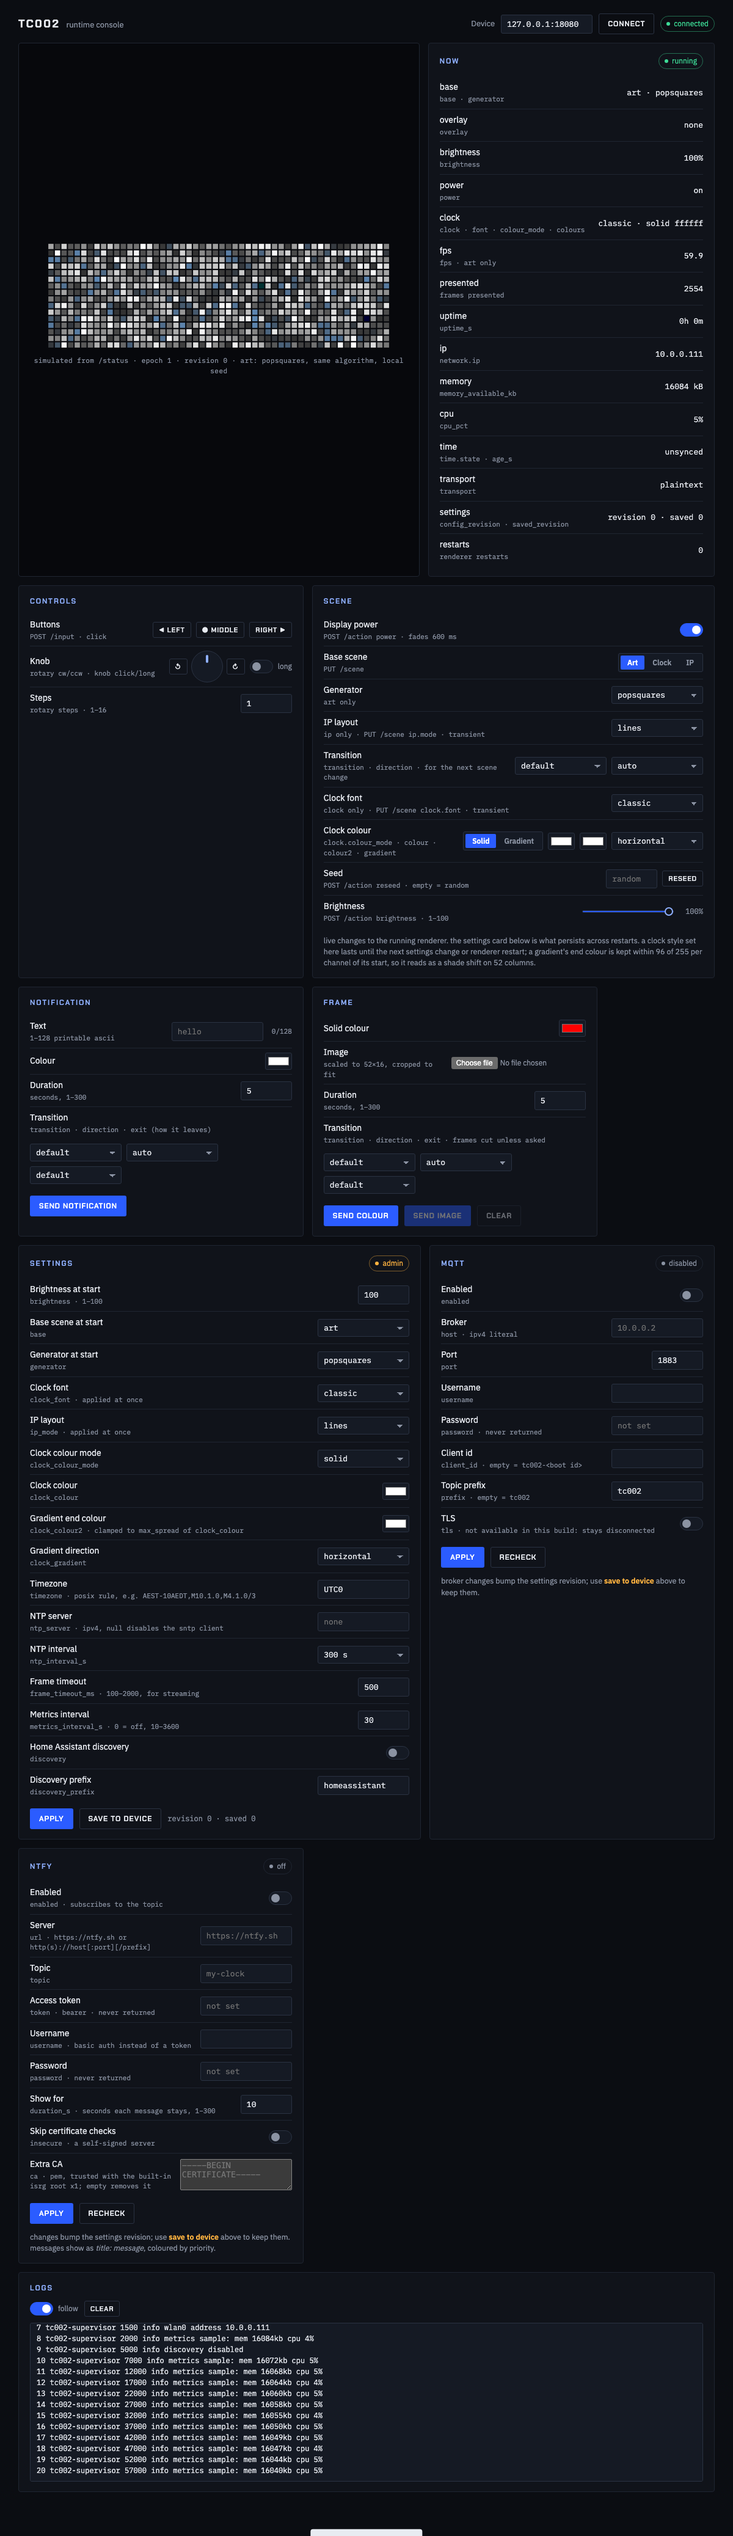
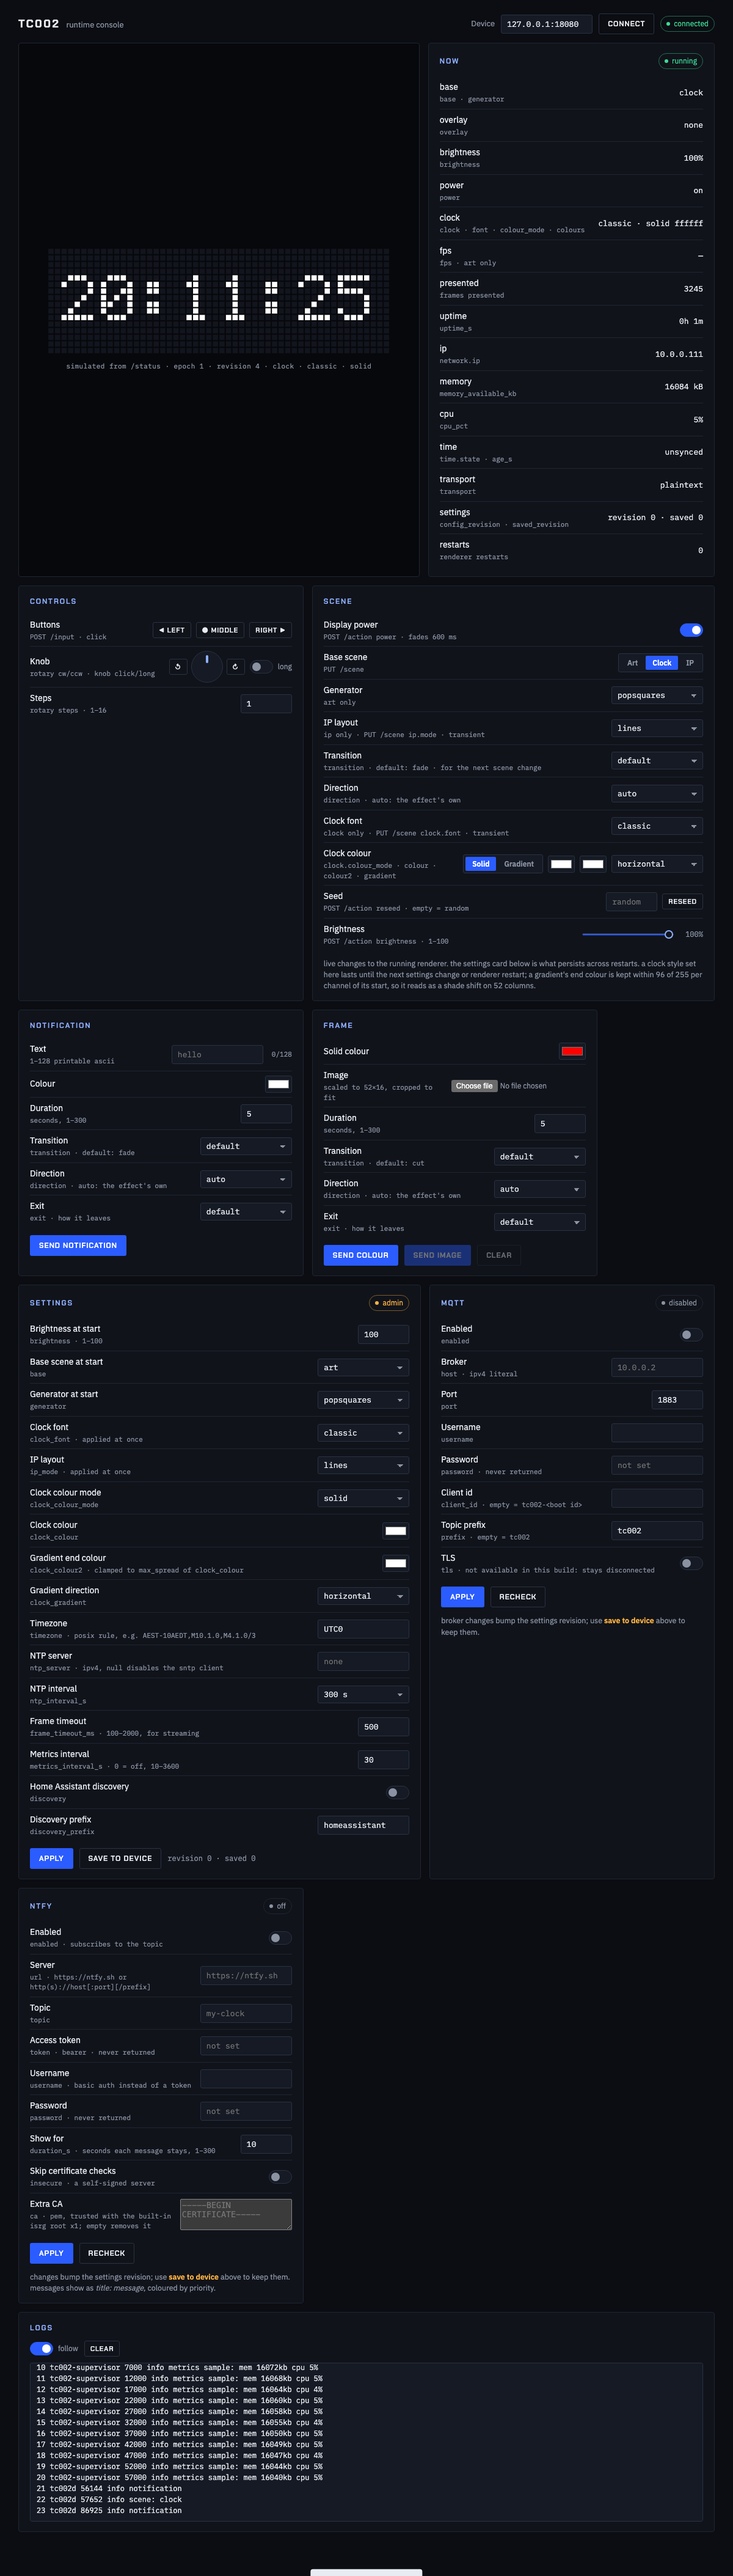
panel-v2: each transition control gets its own labelled row
the effect, direction and exit selects sat together under one "Transition" label, so which box was
which had to be inferred from the order of the words in the key line. they are now three rows,
named Transition, Direction and Exit, each with its api field and default beside it, like every
other row on the page: transition (fade for scenes and notifications, cut for frames), direction
(auto means the effect's own) and exit (how a notification or frame leaves). the scene card gets
the same treatment for its two, and keeps no exit, which a base scene ignores.

the wiring is unchanged: the selects keep their ids, so fillTransitionSelects and transitionFields
still find them. checked through the page against the mock, the notify body carries
`"transition":"blinds","direction":"down","exit":"same"`.

test_layout.mjs gains an assertion that every select is named by the row it sits in, either by a
label whose `for` points at it or by an aria-label. it fails on the five selects that had neither.

Claude-Session: https://claude.ai/code/session_0154EZ6adqhZyrJZmuD4WZcY

diff --git a/panel-v2/index.html b/panel-v2/index.html
@@ -222,8 +222,8 @@ input[type=file]{font:12px var(--body);color:var(--muted);max-width:220px}
           </div></div>
         <div class="field"><label for="gen">Generator<span class="key">art only</span></label><select id="gen"></select></div>
         <div class="field"><label for="kip">IP layout<span class="key">ip only · PUT /scene ip.mode · transient</span></label><select id="kip"></select></div>
-        <div class="field"><label for="strans">Transition<span class="key">transition · direction · for the next scene change</span></label>
-          <span class="inline"><select id="strans"></select><select id="sdir"></select></span></div>
+        <div class="field"><label for="strans">Transition<span class="key">transition · default: fade · for the next scene change</span></label><select id="strans"></select></div>
+        <div class="field"><label for="sdir">Direction<span class="key">direction · auto: the effect's own</span></label><select id="sdir"></select></div>
         <div class="field"><label for="kfont">Clock font<span class="key">clock only · PUT /scene clock.font · transient</span></label><select id="kfont"></select></div>
         <div class="field"><span class="lab">Clock colour<span class="key">clock.colour_mode · colour · colour2 · gradient</span></span>
           <span class="inline">
@@ -251,8 +251,9 @@ input[type=file]{font:12px var(--body);color:var(--muted);max-width:220px}
           <span class="inline"><input type="text" id="ntext" maxlength="128" placeholder="hello" autocomplete="off"><span class="counter" id="ncount">0/128</span></span></div>
         <div class="field"><label for="ncolour">Colour</label><input type="color" id="ncolour" value="#ffffff"></div>
         <div class="field"><label for="ndur">Duration<span class="key">seconds, 1–300</span></label><input type="number" id="ndur" min="1" max="300" value="5"></div>
-        <div class="field"><label for="ntrans">Transition<span class="key">transition · direction · exit (how it leaves)</span></label>
-          <span class="inline"><select id="ntrans"></select><select id="ndir"></select><select id="nexit"></select></span></div>
+        <div class="field"><label for="ntrans">Transition<span class="key">transition · default: fade</span></label><select id="ntrans"></select></div>
+        <div class="field"><label for="ndir">Direction<span class="key">direction · auto: the effect's own</span></label><select id="ndir"></select></div>
+        <div class="field"><label for="nexit">Exit<span class="key">exit · how it leaves</span></label><select id="nexit"></select></div>
       </div>
       <div class="actions"><button class="btn" id="nsend">Send notification</button></div>
     </section>
@@ -264,8 +265,9 @@ input[type=file]{font:12px var(--body);color:var(--muted);max-width:220px}
         <div class="field"><label for="fcolour">Solid colour</label><input type="color" id="fcolour" value="#ff0000"></div>
         <div class="field"><label for="fimage">Image<span class="key">scaled to 52×16, cropped to fit</span></label><input type="file" id="fimage" accept="image/*"></div>
         <div class="field"><label for="fdur">Duration<span class="key">seconds, 1–300</span></label><input type="number" id="fdur" min="1" max="300" value="5"></div>
-        <div class="field"><label for="ftrans">Transition<span class="key">transition · direction · exit · frames cut unless asked</span></label>
-          <span class="inline"><select id="ftrans"></select><select id="fdir"></select><select id="fexit"></select></span></div>
+        <div class="field"><label for="ftrans">Transition<span class="key">transition · default: cut</span></label><select id="ftrans"></select></div>
+        <div class="field"><label for="fdir">Direction<span class="key">direction · auto: the effect's own</span></label><select id="fdir"></select></div>
+        <div class="field"><label for="fexit">Exit<span class="key">exit · how it leaves</span></label><select id="fexit"></select></div>
       </div>
       <div class="actions">
         <button class="btn" id="fsendcolour">Send colour</button>
